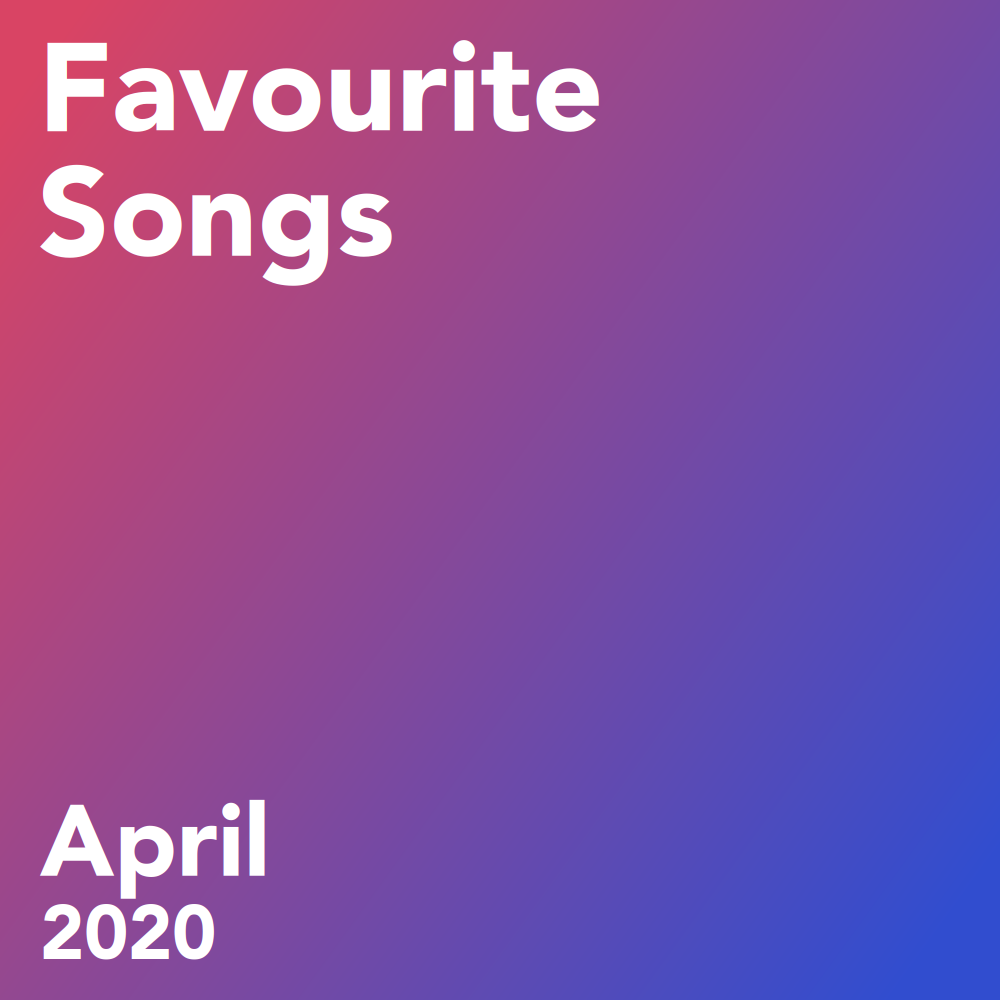
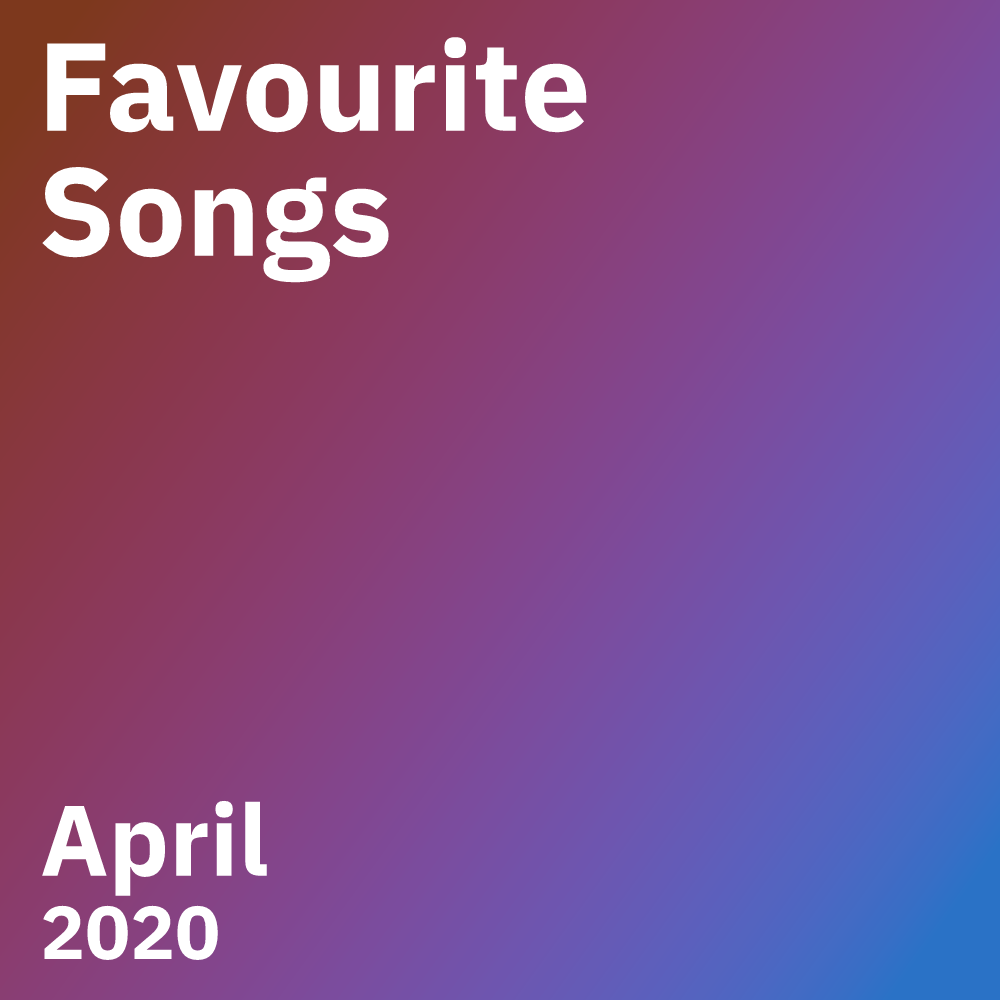
Approximate oklch via multiple gradient stops (#11)
* Approximate oklch

* Update sample cover

diff --git a/pkg/templating/oklch_test.go b/pkg/templating/oklch_test.go
@@ -1,0 +1,70 @@
+package templating //nolint:testpackage // Verify gradient samples without exposing implementation details.
+
+import (
+	"fmt"
+	"image/color"
+	"math"
+	"testing"
+
+	"github.com/lucasb-eyer/go-colorful"
+)
+
+func TestOKLCHGradientStops(t *testing.T) {
+	tests := []struct {
+		name       string
+		start, end color.RGBA
+		midpoint   string
+	}{
+		{"black to white", color.RGBA{A: 255}, color.RGBA{R: 255, G: 255, B: 255, A: 255}, "rgb(99,99,99)"},
+		{"red to blue shorter hue", color.RGBA{R: 255, A: 255}, color.RGBA{B: 255, A: 255}, "rgb(186,0,194)"},
+		{"identical", color.RGBA{R: 42, G: 100, B: 180, A: 255},
+			color.RGBA{R: 42, G: 100, B: 180, A: 255}, "rgb(42,100,180)"},
+		{"grey to red", color.RGBA{R: 128, G: 128, B: 128, A: 255},
+			color.RGBA{R: 255, A: 255}, "rgb(198,99,86)"},
+	}
+	for _, tt := range tests {
+		t.Run(tt.name, func(t *testing.T) {
+			stops := oklchGradientStops(tt.start, tt.end)
+			if len(stops) != 129 {
+				t.Fatalf("got %d stops, want 129", len(stops))
+			}
+			for index, endpoint := range map[int]color.RGBA{0: tt.start, len(stops) - 1: tt.end} {
+				want := fmt.Sprintf("rgb(%d,%d,%d)", endpoint.R, endpoint.G, endpoint.B)
+				if stops[index].Colour != want {
+					t.Errorf("endpoint %d = %s, want %s", index, stops[index].Colour, want)
+				}
+			}
+			if got := stops[len(stops)/2].Colour; got != tt.midpoint {
+				t.Errorf("midpoint = %s, want %s", got, tt.midpoint)
+			}
+			for i, stop := range stops {
+				if stop.Offset != float64(i)/128 {
+					t.Fatalf("stop %d has incorrect offset %f", i, stop.Offset)
+				}
+			}
+			reversed := oklchGradientStops(tt.end, tt.start)
+			for i, stop := range stops {
+				if stop.Colour != reversed[len(stops)-1-i].Colour {
+					t.Fatalf("gradient differs when reversed at stop %d", i)
+				}
+			}
+		})
+	}
+}
+
+func TestOKLCHGradientHueWrap(t *testing.T) {
+	start := color.RGBAModel.Convert(colorful.OkLch(0.6, 0.08, 170)).(color.RGBA)
+	end := color.RGBAModel.Convert(colorful.OkLch(0.6, 0.08, 190)).(color.RGBA)
+	stops := oklchGradientStops(start, end)
+	var midpoint color.RGBA
+	_, err := fmt.Sscanf(stops[len(stops)/2].Colour, "rgb(%d,%d,%d)", &midpoint.R, &midpoint.G, &midpoint.B)
+	if err != nil {
+		t.Fatal(err)
+	}
+	midpoint.A = 255
+	converted, _ := colorful.MakeColor(midpoint)
+	_, _, hue := converted.OkLch()
+	if math.Abs(math.Abs(hue)-180) > 2 {
+		t.Fatalf("midpoint hue = %f degrees, want near 180 along shorter arc", hue)
+	}
+}

diff --git a/pkg/templating/gradient_test.go b/pkg/templating/gradient_test.go
@@ -1,0 +1,64 @@
+package templating_test
+
+import (
+	"bytes"
+	"context"
+	"encoding/xml"
+	"image/png"
+	"reflect"
+	"strings"
+	"testing"
+
+	"gopkg.in/yaml.v3"
+
+	"github.com/nint8835/spotify-cover-maker/pkg/rendering"
+	"github.com/nint8835/spotify-cover-maker/pkg/templating"
+)
+
+func TestGradientTemplateRendering(t *testing.T) {
+	var cover templating.Cover
+	if err := yaml.Unmarshal([]byte("name: OKLCH test\ntemplate: gradient\n"), &cover); err != nil {
+		t.Fatal(err)
+	}
+	definition := templating.TemplateDefinitionMap[cover.Meta.Template]
+	data := definition.TemplateContext(cover).(templating.GradientTemplateContext)
+	if !reflect.DeepEqual(data, definition.TemplateContext(cover)) {
+		t.Fatal("same cover must generate deterministic gradient stops")
+	}
+	var svg bytes.Buffer
+	if err := templating.Templates[definition.ID()].Execute(&svg, data); err != nil {
+		t.Fatal(err)
+	}
+	var document struct {
+		Stops []struct {
+			Offset float64 `xml:"offset,attr"`
+			Style  string  `xml:"style,attr"`
+		} `xml:"defs>linearGradient>stop"`
+	}
+	if err := xml.Unmarshal(svg.Bytes(), &document); err != nil {
+		t.Fatal(err)
+	}
+	if len(document.Stops) != 129 {
+		t.Fatalf("SVG contains %d stops, want 129", len(document.Stops))
+	}
+	for i, stop := range document.Stops {
+		if stop.Offset != data.Stops[i].Offset || !strings.Contains(stop.Style, "stop-color:"+data.Stops[i].Colour+";") {
+			t.Fatalf("SVG stop %d does not match generated stop", i)
+		}
+	}
+	imageBytes, err := rendering.SvgToPng(context.Background(), svg.Bytes(), nil)
+	if err != nil {
+		t.Fatal(err)
+	}
+	image, err := png.Decode(bytes.NewReader(imageBytes))
+	if err != nil {
+		t.Fatal(err)
+	}
+	if image.Bounds().Dx() != 1000 || image.Bounds().Dy() != 1000 {
+		t.Fatalf("unexpected image size: %v", image.Bounds())
+	}
+	// Background pixels away from text must differ along the gradient.
+	if image.At(500, 500) == image.At(900, 800) {
+		t.Fatal("rendered gradient has a flat background")
+	}
+}

diff --git a/pkg/templating/oklch.go b/pkg/templating/oklch.go
@@ -1,0 +1,41 @@
+package templating
+
+import (
+	"fmt"
+	"image/color"
+
+	"github.com/lucasb-eyer/go-colorful"
+)
+
+// GradientStop is an SVG-compatible sRGB sample of an OKLCH gradient.
+type GradientStop struct {
+	Offset float64
+	Colour string
+}
+
+func oklchGradientStops(start, end color.RGBA) []GradientStop {
+	const segments = 128
+	// Template endpoints are opaque sRGB colours.
+	from, _ := colorful.MakeColor(start)
+	to, _ := colorful.MakeColor(end)
+
+	stops := make([]GradientStop, segments+1)
+	for i := range stops {
+		t := float64(i) / segments
+		// BlendOkLch handles shorter hue interpolation, achromatic endpoints,
+		// and clipping colours outside the sRGB gamut.
+		r, g, b := from.BlendOkLch(to, t).RGB255()
+		// Preserve the original endpoints exactly, independent of conversion rounding.
+		switch i {
+		case 0:
+			r, g, b = start.R, start.G, start.B
+		case segments:
+			r, g, b = end.R, end.G, end.B
+		}
+		stops[i] = GradientStop{
+			Offset: t,
+			Colour: fmt.Sprintf("rgb(%d,%d,%d)", r, g, b),
+		}
+	}
+	return stops
+}

diff --git a/pkg/templating/gradient.go b/pkg/templating/gradient.go
@@ -3,7 +3,7 @@ package templating
 import (
 	"crypto/md5"
 	"encoding/binary"
-	"fmt"
+	"image/color"
 	"math/rand"
 
 	"gopkg.in/yaml.v3"
@@ -14,8 +14,7 @@ import (
 type GradientTemplateContext struct {
 	GradientTemplateConfig
 
-	Colour1 string
-	Colour2 string
+	Stops []GradientStop
 }
 
 type GradientTemplateConfig struct {
@@ -67,8 +66,10 @@ func (t *GradientTemplate) TemplateContext(cover Cover) any {
 	return GradientTemplateContext{
 		GradientTemplateConfig: data,
 
-		Colour1: fmt.Sprintf("rgb(%d,%d,%d)", r1, g1, b1),
-		Colour2: fmt.Sprintf("rgb(%d,%d,%d)", r2, g2, b2),
+		Stops: oklchGradientStops(
+			color.RGBA{R: uint8(r1), G: uint8(g1), B: uint8(b1), A: 255},
+			color.RGBA{R: uint8(r2), G: uint8(g2), B: uint8(b2), A: 255},
+		),
 	}
 }
 
